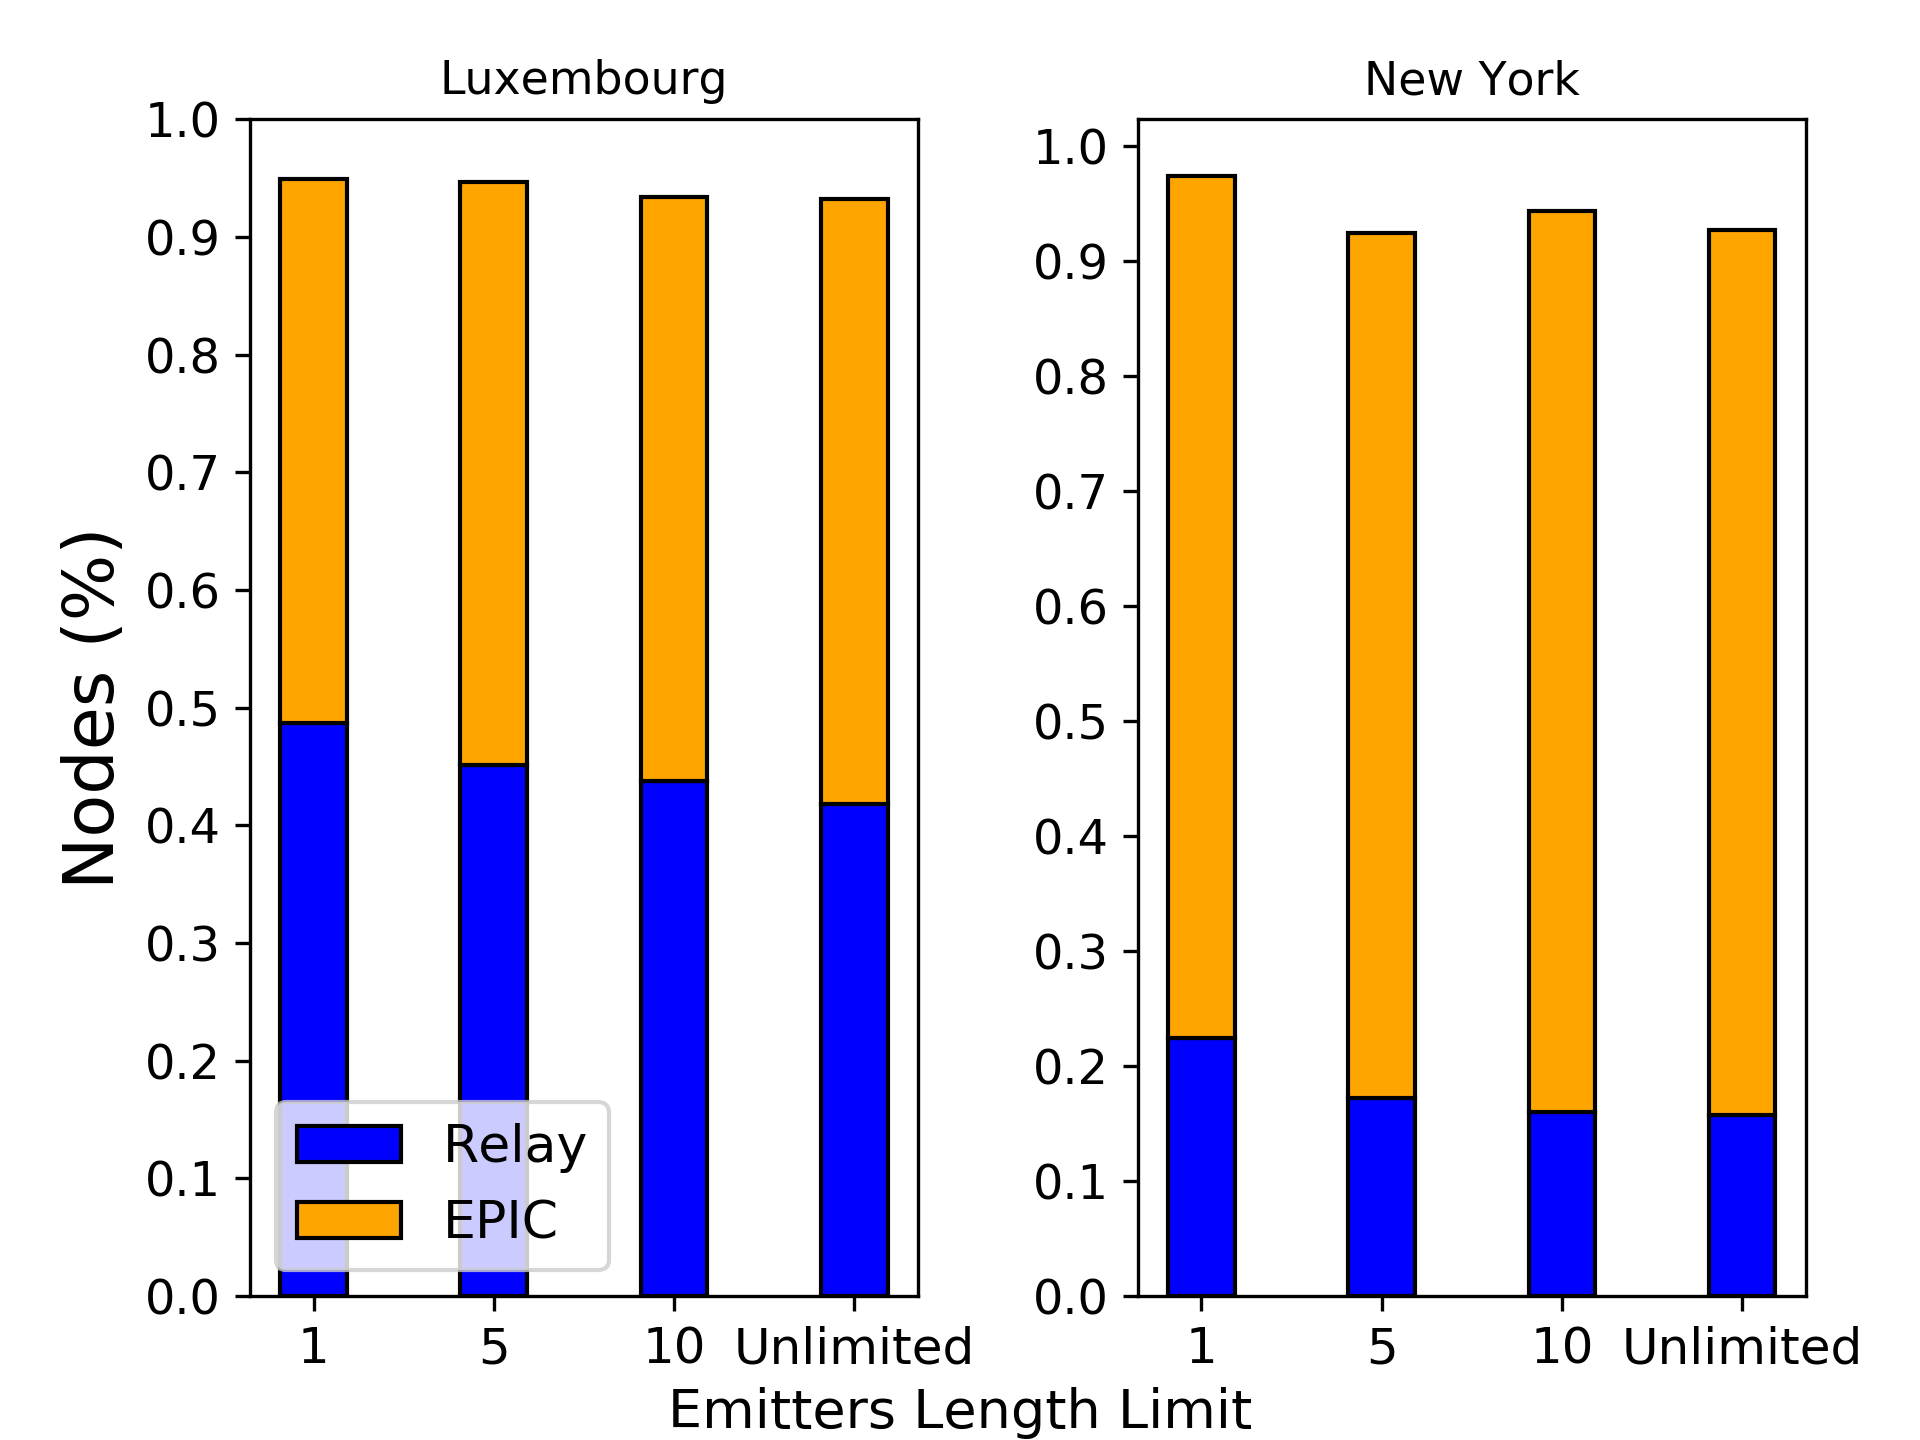
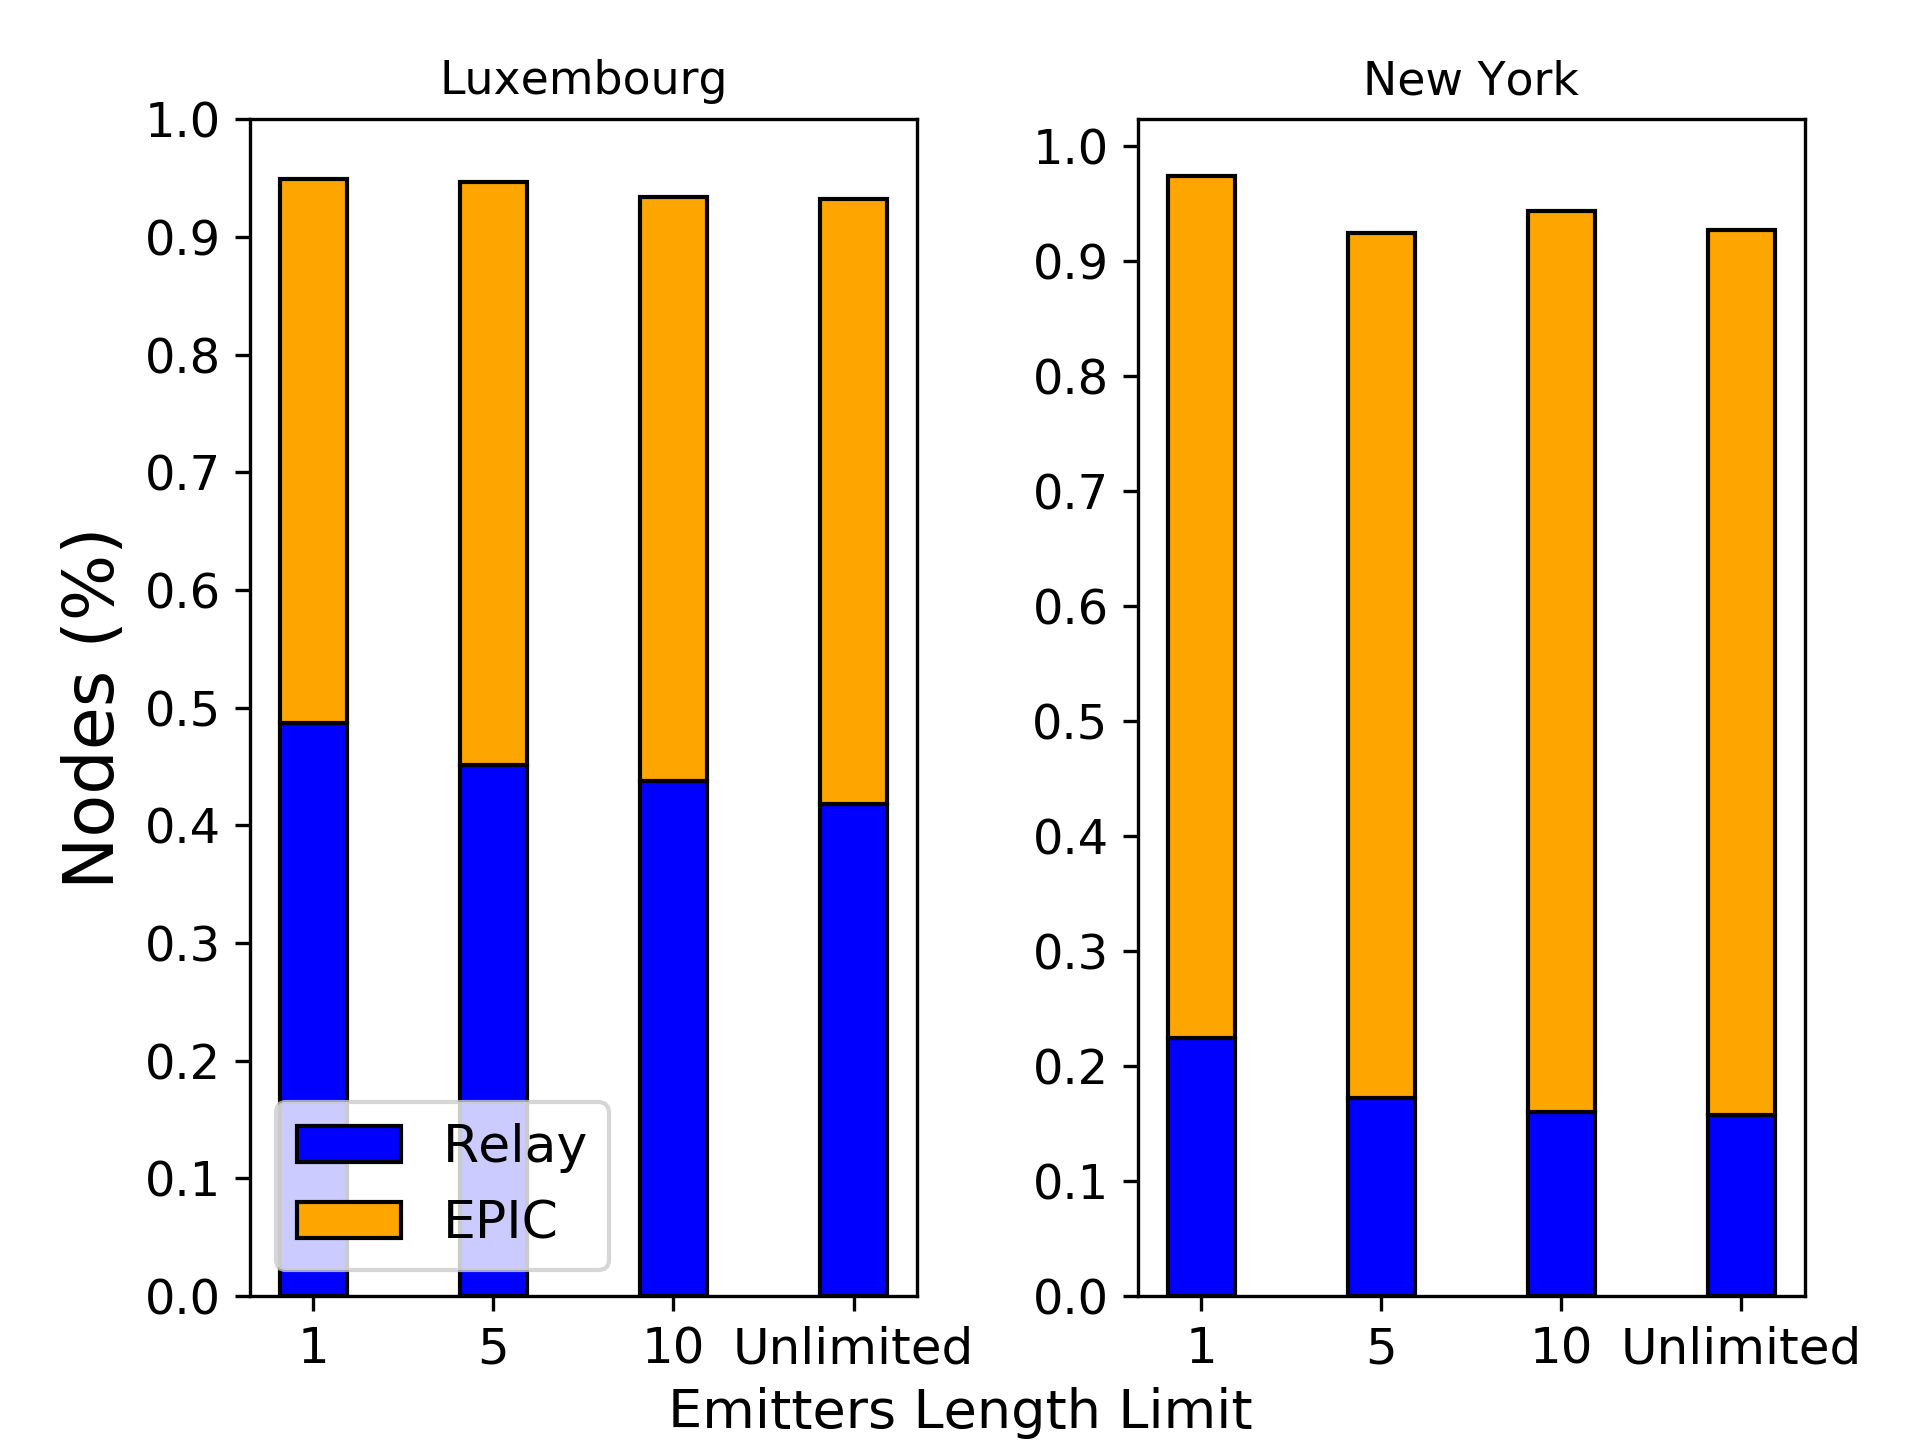
moved legend up

Changed region(s): [[0.7188, 0.0312, 0.8125, 0.0625]]

diff --git a/grafici/graph-TC-alg-rmin-comp.py b/grafici/graph-TC-alg-rmin-comp.py
@@ -65,7 +65,8 @@ plt.yticks(np.arange(0, 1.1, 0.1))
 #plt.legend((p3[0], p2[0], p6[0], p4[0]), ('Relayers', 'Reached', r'Probabilistic $P=\widehat{P}$', r'Probabilistic $P=0.96$'), 
 #	loc='upper center', bbox_to_anchor=(0.5, -0.08),
 #    fancybox=True, shadow=True, ncol=5)
-plt.legend((p1[0], p2[0], p4[0]), ('Relay', 'EPIC high density', 'EPIC low density'), loc='lower center', fancybox=True)
+plt.legend((p1[0], p2[0], p4[0]), ('Relay', 'EPIC high density', 'EPIC low density'), 
+  	loc='upper center', bbox_to_anchor=(0.5, 1.15), fancybox=True, shadow=True, ncol=5)
 
 
 plt.gcf().subplots_adjust(bottom=0.15, left=0.15)

diff --git a/grafici/graph-TC-comparison.py b/grafici/graph-TC-comparison.py
@@ -111,10 +111,10 @@ ax.set_position([box.x0, box.y0 + box.height * 0.1,
 
 plt.ylabel('Nodes (%)')
 plt.title('')
-plt.xticks(ind+width+gap, ('Luxemburg', 'Cologne', 'New York'))
+plt.xticks(ind+width+gap, ('Luxembourg', 'Cologne', 'New York'))
 plt.yticks(np.arange(0, 1.1, 0.1))
 plt.legend((p3[0], p2[0], p4[0], p6[0]), ('Relay', 'EPIC', r'Probabilistic $P=0.96$', r'Probabilistic $P=\widehat{P}$'), 
-	loc='upper center', bbox_to_anchor=(0.5, -0.08),
+	loc='upper center', bbox_to_anchor=(0.5, 1.13),
     fancybox=True, shadow=True, ncol=5)
 
 

diff --git a/grafici/graph-TC-forw-recv.py b/grafici/graph-TC-forw-recv.py
@@ -96,7 +96,9 @@ plt.ylabel('Nodes (%)')
 plt.title('')
 plt.xticks(ind+width/2+gap/2, ('Luxemburg', 'Cologne', 'New York'))
 plt.yticks(np.arange(0, 1.1, 0.1))
-plt.legend((p3[0], p2[0], p4[0]), ('Relay', 'EPIC high density', 'EPIC low density'), loc='upper left')
+plt.legend((p3[0], p2[0], p4[0]), ('Relay', 'EPIC high density', 'EPIC low density'),
+      loc='upper center', bbox_to_anchor=(0.5, 1.15),
+          fancybox=True, shadow=True, ncol=5)
 
 #plt.show()
 plt.savefig('grafici/top_car/frw_recv.png', dpi=300)
